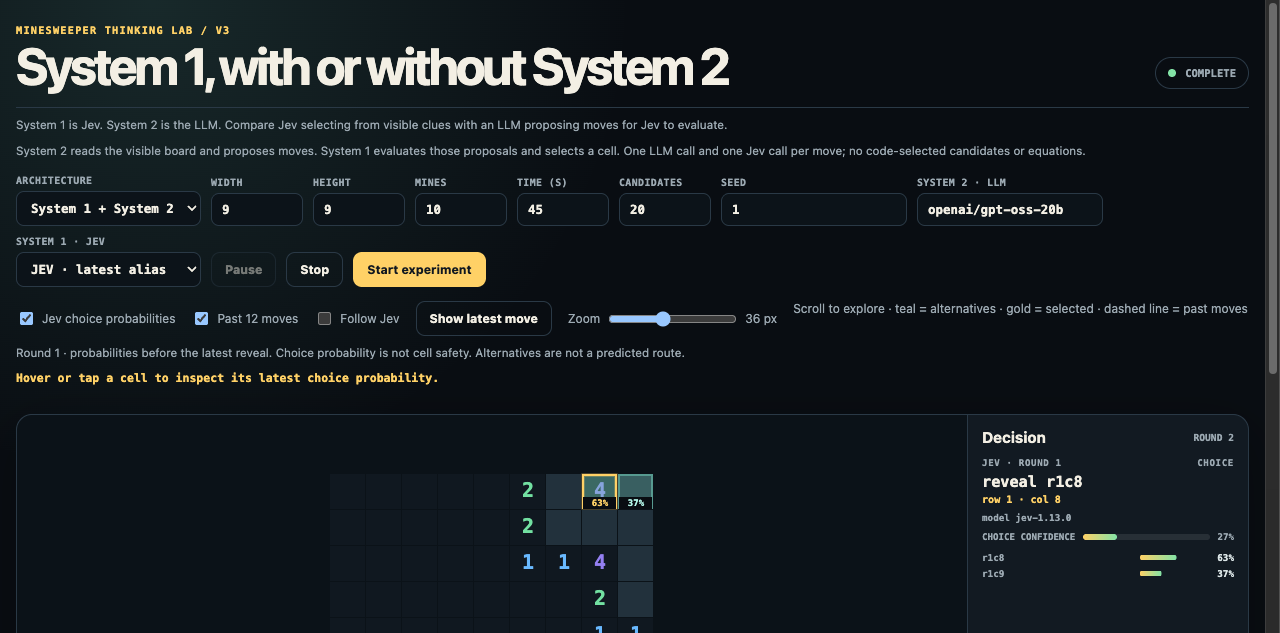
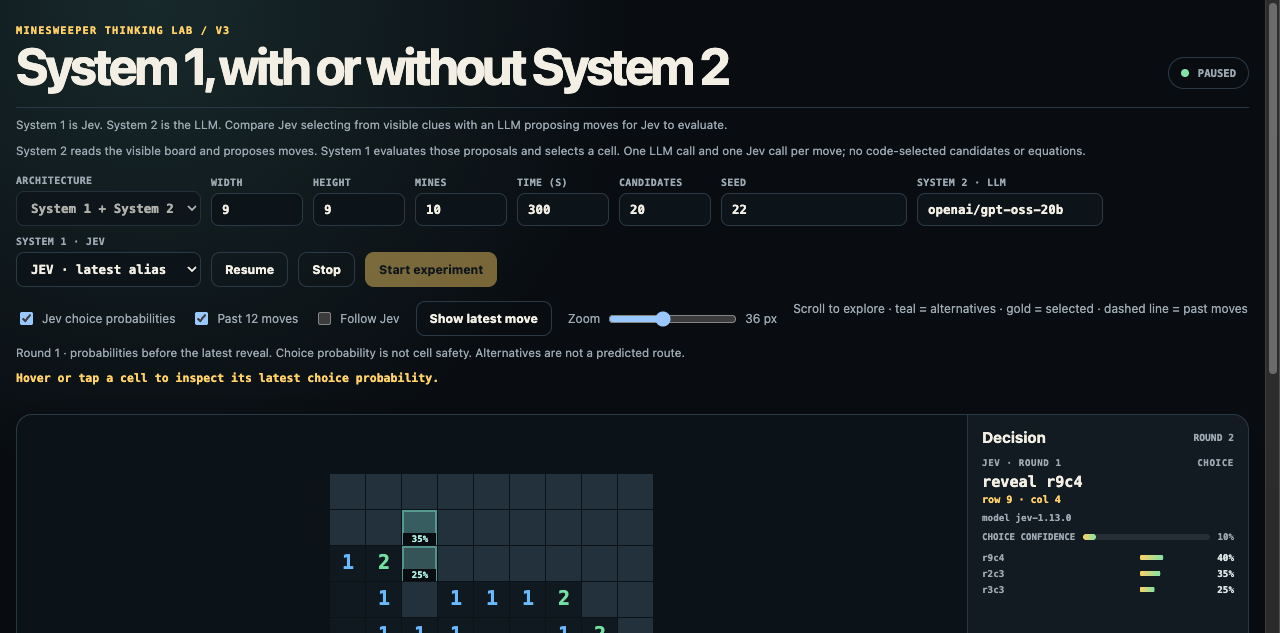
docs: align guides and research scope with current V3 architecture

diff --git a/docs/v3-context-lab.md b/docs/v3-context-lab.md
@@ -1,8 +1,8 @@
 # V3: System 1 and System 2
 
-Open `/v3/` to compare System 1 (Jev) alone with System 1 + System 2 (an LLM). V3 has its
-own session and retains zoom, manual scrolling, choice percentages, and optional
-following.
+Open `/v3/` to compare System 1 (Jev) alone with System 1 + System 2 (an LLM).
+V3 has its own session and retains zoom, manual scrolling, choice percentages,
+and optional following.
 
 | Mode | Input preparation | Who proposes moves? |
 | --- | --- | --- |
@@ -27,9 +27,9 @@ Select the OpenRouter model in **System 2 · LLM**. This mode requires an
 `OPENROUTER_API_KEY` and a Jev key. It makes one LLM call followed by one Jev
 call per decision; both count toward the game deadline. System 2 has up to
 120 seconds per request, bounded by the remaining game time. The status badge
-identifies the active model, a failed request, or a reached time limit. Large boards send
-more input and may exceed a provider's context or time limits. The board is
-not silently cropped. Hidden mine locations and move history are never sent.
+identifies the active model, a failed request, or a reached time limit.
+Jev requests have a 20-second limit. Large boards send more input and may
+exceed a provider's context or time limits. The board is not silently cropped. Hidden mine locations and move history are never sent.
 
 This tests Jev's selection among LLM proposals, not independent Minesweeper
 solving by Jev. LLM rationales may be wrong. No solver verifies them or corrects
@@ -49,20 +49,27 @@ clues; its scope and truncation status are included in the input.
 Equations only restate observations: a revealed `1` bordering A, B, and C
 becomes `A + B + C = 1`. Code does not combine or solve these equations.
 These baselines provide domain-specific structure even though they do not
-supply a computed solution. Their candidates and prompts differ from LLM + Jev.
+supply a computed solution. Their candidates and prompts differ from
+System 1 + System 2.
 
 ## Inspect and compare
 
-Choose a board, seed, input mode, pinned Jev model, and candidate/proposal
-limit. Expand **Input sent to Jev** to inspect or download the exact latest
-request, including the LLM proposals when present. Credentials are excluded.
+Choose a board, seed, **Architecture**, pinned Jev model, and **Candidates**
+limit. That limit caps code-sampled options in System 1 and LLM proposals in
+combined mode. Expand **Input sent to Jev** to inspect or download the exact
+latest request, including the LLM proposals when present. While System 2 is working,
+the inspector still shows the preceding Jev request, or no request before the
+first proposals arrive. Credentials are excluded.
 
 Same-seed games can follow different trajectories. Compare repeated games,
 failures, cost, and end-to-end latency before drawing performance conclusions.
 V3 stops on provider errors, invalid choices, or expired decisions. Choice
 percentages describe Jev's preferences, not probabilities of cell safety.
 
-![V3 System 1 + System 2 on a beginner board](images/v3-llm-guidance.png)
+The screenshot illustrates a paused provider-backed game, not a comparative
+performance result.
+
+![V3 System 1 + System 2 paused after a move on a beginner board](images/v3-llm-guidance.png)
 
 Implementation: [input construction](../minesweeper/context_lab.py),
 [provider adapter](../minesweeper/agents.py), and

diff --git a/README.md b/README.md
@@ -5,8 +5,10 @@ Minesweeper. The project measures board completion, decision quality, provider
 calls, and latency to test when model-assisted decisions improve on code alone.
 
 In these experiments, **System One** is Jev's typed decision model and
-**System Two** is an LLM asked to review a candidate move. Code controls the
-game, computes risks, and executes actions.
+**System Two** is an LLM. In V3, the LLM proposes moves for Jev to select;
+in the CLI hybrid, it reviews uncertain decisions after Jev. Code owns game
+rules and execution. Solver deductions and risk estimates are used by the
+original browsers and CLI, but are not supplied in V3.
 
 ## Experiments
 
@@ -19,7 +21,8 @@ game, computes risks, and executes actions.
 
 Variant 3 has six modes: `heuristic`, `code`, `proof`, `jev`, `llm`, and `hybrid`.
 Its solver and hybrid controller are available through the CLI; the browser
-variants retain their original controller. The 500×500 input limit describes
+routes `/` and `/v2/` retain their original controller. V3 uses a separate
+controller without solver guidance. The 500×500 input limit describes
 supported board size, not demonstrated solving reliability.
 
 ## Findings
@@ -36,7 +39,9 @@ is too small to establish a general model comparison. See the
 [research report](minesweeper/docs/system-one-system-two-research.md) for methods,
 all results, failures, and limitations.
 
-See the [V3 context lab guide](docs/v3-context-lab.md) for what each input mode supplies and how to inspect the actual request.
+The recorded findings above concern the CLI policies, not V3. V3 has gameplay
+integration checks but no published comparative win-rate study. See the
+[V3 guide](docs/v3-context-lab.md) for its inputs and request inspection.
 
 ## Browser gameplay
 
@@ -68,14 +73,18 @@ cp .env.example .env
 python3 -m minesweeper.server
 ```
 
-Open [LLM vs Jev](http://127.0.0.1:5391/) or
+Open [System 1 and System 2 (V3)](http://127.0.0.1:5391/v3/),
+[LLM vs Jev](http://127.0.0.1:5391/), or
 [Jev on large boards](http://127.0.0.1:5391/v2/). Use `TYPESAFE_API_KEY`
 (or `JEV_API_KEY`) for Jev and `OPENROUTER_API_KEY` for the LLM. Credentials
-remain on the server. Live experiments consume provider credits.
+remain on the server. V3 System 1 needs only the Jev key; its combined mode
+needs both keys. Live experiments consume provider credits. Use `--port 5392`
+to serve these routes on port 5392 instead of the default 5391.
 
 ## Documentation
 
 - [Run guide](minesweeper/README.md): configuration, benchmark commands, and budgets.
+- [V3 guide](docs/v3-context-lab.md): System 1 and System 2 inputs, controls, and failures.
 - [Architecture](docs/architecture.md): solver, model interfaces, routing, and execution checks.
 - [Research report](minesweeper/docs/system-one-system-two-research.md): experimental design and evidence.
 - [Findings article](minesweeper/docs/system-one-system-two-article.md): a shorter discussion of the results.

diff --git a/minesweeper/README.md b/minesweeper/README.md
@@ -16,21 +16,22 @@ python3 -m minesweeper.server
 | Experiment | URL | Credentials |
 | --- | --- | --- |
 | LLM vs Jev | [http://127.0.0.1:5391/](http://127.0.0.1:5391/) | Jev key and `OPENROUTER_API_KEY` |
-| Context lab | [http://127.0.0.1:5391/v3/](http://127.0.0.1:5391/v3/) | `TYPESAFE_API_KEY` or `JEV_API_KEY` |
+| System 1 / System 1 + System 2 (V3) | [http://127.0.0.1:5391/v3/](http://127.0.0.1:5391/v3/) | Jev key; combined mode also requires `OPENROUTER_API_KEY` |
 | Jev on large boards | [http://127.0.0.1:5391/v2/](http://127.0.0.1:5391/v2/) | `TYPESAFE_API_KEY` or `JEV_API_KEY` |
 
-The server loads the root `.env` and keeps credentials server-side. Optional
-variables are `JEV_MODEL`, `OPENROUTER_MODEL`, and `PORT`. The legacy
-`openouterkey` name is also accepted. Server flags include `--host`, `--port`,
-`--html`, and `--v2-html`; `./minesweeper/scripts/start.sh` forwards these flags.
+The server loads the root `.env` and keeps credentials server-side. Choose
+models in the browser controls; `JEV_MODEL` and `OPENROUTER_MODEL` configure
+CLI defaults. Use `--port 5392` to change the default port 5391. The legacy
+`openouterkey` credential name is also accepted. Server flags include
+`--host`, `--port`, `--html`, and `--v2-html`; `./minesweeper/scripts/start.sh` forwards these flags.
 
 The comparison starts both models on the same seeded board. Different actions
 can produce different subsequent observations. The first reveal is safe;
 revealing a mine loses the lane, and revealing every safe cell wins it.
 
 The large-board browser accepts up to 500×500 cells and sends compact frontier
-input above 4,096 cells. Both browsers use the original heuristic controller.
-The stronger solver and hybrid policy below are CLI experiments.
+input above 4,096 cells. The `/` and `/v2/` routes use the original heuristic
+controller. The stronger solver and hybrid policy below are CLI experiments.
 
 In V2, use **Zoom** and scroll in either direction to explore large boards.
 The viewport stays fixed by default. Enable **Follow Jev** to keep the latest
@@ -50,6 +51,14 @@ from V2. System 1 uses code-sampled frontier candidates and visible clues;
 combined mode uses the LLM's proposals from the full visible board. Neither
 mode supplies solver deductions or computed risks. Expand **Input sent to Jev**
 to inspect or download the latest request.
+
+System 2 proposes moves before System 1 selects one; it is called on every
+combined-mode decision. Its request limit is 120 seconds, bounded by the
+remaining game time; Jev has a 20-second request limit. The badge shows the
+active model. **Failed** means no usable decision was returned, **time limit**
+means the game budget expired, and **board cleared** means a win. Errors
+appear above the board; no fallback move replaces a failed V3 decision.
+The zoom, follow, and pause controls described above also work in V3.
 
 ## Benchmark modes
 

diff --git a/docs/architecture.md b/docs/architecture.md
@@ -4,7 +4,8 @@ The repository contains the two original browser experiments, the V3 context
 lab, and a separate benchmark CLI.
 They share the game engine and provider clients, but use different solvers and
 controllers. “System One” denotes TypeSafe Jev; “System Two” denotes the LLM's
-review role in the hybrid policy. These are software roles rather than claims
+analysis role: proposing moves before Jev in V3, or reviewing Jev decisions
+in the CLI hybrid policy. These are software roles rather than claims
 about human cognition. See [TypeSafe's System One definition](https://docs.typesafe.ai/concepts/system-one.md).
 
 ## Browser experiments
@@ -118,9 +119,29 @@ into a browser are tracked in the [roadmap](roadmap.md). Evaluation results and
 their limitations are in the
 [research report](../minesweeper/docs/system-one-system-two-research.md).
 
-## V3 context lab
+## V3: System 1 and System 2
 
-The [context lab](v3-context-lab.md) uses a separate server session at `/v3/`.
-It holds candidate selection and the Choice prompt fixed while varying clue
-representation and explicit solver guidance. It stops on failed or invalid
-decisions instead of using the original browsers’ random fallback.
+The [V3 guide](v3-context-lab.md) describes the separate session at `/v3/`.
+Neither visible UI mode supplies solver deductions or risk estimates.
+
+| Mode | Input and decision flow |
+| --- | --- |
+| System 1 | Code samples frontier candidates and gathers visible clues → Jev selects → code executes |
+| System 1 + System 2 | Full visible board → LLM proposes cells and rationales → Jev selects a proposal → code executes |
+
+[context_lab.py](../minesweeper/context_lab.py) constructs public inputs and
+validates LLM proposals for format, count, uniqueness, bounds, and legality.
+It does not rank, repair, or replace the proposals. The combined mode's Jev
+Choice options exactly match the LLM's proposals; the visible board is included
+alongside that unverified advice. The baseline's code-sampled options and
+prompt differ, so this is an architecture comparison, not an identical-input
+model comparison. An equation baseline remains API-only for reproducibility.
+
+System 2 has a 120-second request limit and Jev a 20-second limit, both bounded
+by the remaining game time. Execution checks the current run, stop state, and
+deadline before applying the result. Provider or proposal failures stop V3
+without the original browsers' random fallback or the CLI's risk correction.
+The UI identifies the active model and displays failure reasons above the board.
+
+This LLM → Jev flow is separate from the CLI's guarded Jev → LLM cascade.
+The historical CLI results do not measure V3's reliability.

diff --git a/CHANGELOG.md b/CHANGELOG.md
@@ -2,17 +2,14 @@
 
 ## Unreleased
 
-- Fix V3 reporting failed runs as complete. Show provider errors above the board
-  and the active reasoning stage; allow System 2 up to 120 seconds within the game deadline.
-- Label the V3 UI as System 1 (Jev) and System 1 + System 2 (LLM proposals
-  followed by Jev selection); remove the equation mode from the UI.
-- Replace V3 equation-based LLM advice with full-board LLM proposals followed
-  by Jev selection. Validate proposals without code-selected candidates or equations.
-- Replace V3 solver guidance with LLM advice from the same public evidence,
-  followed by Jev selection. Add a guidance-model control and inspectable advice.
-- Add a separate V3 context lab with clue-only, equation, and LLM-guided
-  inputs, inspectable requests, and failure handling without random fallback.
-
+- Add a separate V3 browser experiment with **System 1 (Jev)** and
+  **System 1 + System 2 (LLM proposals → Jev selection)**. Combined mode sends
+  the full visible board without code-selected candidates or equations;
+  invalid proposals stop the run without replacement moves.
+- Add model controls, inspectable Jev requests, and stage-specific status.
+  Failures appear above the board; System 2 has up to 120 seconds within the
+  game deadline. Retain the earlier equation baseline through the API only.
+- Document V3 separately from the historical guarded CLI cascade and its results.
 - Keep the V2 viewport fixed by default; make following opt-in and add a
   one-time **Show latest move** control.
 - Add V2 cell-choice percentages, previous-round changes, recent move trails,

diff --git a/docs/roadmap.md b/docs/roadmap.md
@@ -1,8 +1,10 @@
 # Roadmap
 
 The stronger constraint solver and Jev → LLM cascade currently run through the
-benchmark CLI. The two browser experiments use the original game policy.
-This roadmap describes proposed work; it is not part of the current release.
+benchmark CLI. The original `/` and `/v2/` browsers use the original game
+policy. [V3](v3-context-lab.md) already compares Jev with LLM proposals followed
+by Jev selection, without solver guidance. It does not implement the CLI cascade.
+The work below is proposed, separate from these available interfaces.
 
 ## Shared execution policy
 
@@ -50,6 +52,15 @@ justify its additional latency and cost.
 4. Retain the existing results as historical evidence and save new runs
    separately. Seeds used in development or regression checks are no longer
    held out for later studies.
+
+## V3 architecture evaluation
+
+Compare System 1 with System 1 + System 2 on repeated held-out games, recording
+provider failures, time limits, calls, input size, latency, cost, and completion.
+The architectures use different candidate-generation procedures; report that
+as part of the comparison. For a separate selection study, replay the same
+frozen LLM proposals to Jev and an LLM selector. Keep these findings separate
+from the existing guarded CLI study.
 
 ## Large-board performance
 

diff --git a/minesweeper/docs/system-one-system-two-article.md b/minesweeper/docs/system-one-system-two-article.md
@@ -10,7 +10,7 @@ LLM, but adding LLM review did not improve the recorded outcomes.
 
 ## Three approaches to decision making
 
-The repository includes an LLM-versus-Jev browser comparison, a Jev-only
+The original study includes an LLM-versus-Jev browser comparison, a Jev-only
 large-board browser, and a CLI for comparing stronger inference with code,
 Jev, LLM, and hybrid policies. The browsers use the original game policy.
 The stronger solver and hybrid are currently available in the CLI.
@@ -23,6 +23,11 @@ budgets. A guard restricts model choices to candidates tied at the minimum
 computed mine risk. “Jev-only” therefore means one model provider; the game
 still depends on deterministic code.
 [Implemented architecture](../../docs/architecture.md)
+
+The later [V3 experiment](../../docs/v3-context-lab.md) compares Jev with
+LLM-generated proposals followed by Jev selection, without solver guidance.
+Its architecture and request budgets differ from this study; the recorded
+results below do not evaluate V3.
 
 ## Better inference reduced guessing
 

diff --git a/docs/gameplay.md b/docs/gameplay.md
@@ -43,6 +43,19 @@ enabling automatic scrolling. Opt into **Follow Jev** to track moves, or use
 it does not forecast a route. Only visible cells are drawn, so increasing the
 board size does not require a board-sized canvas.
 
+## System 1 and System 2 (V3)
+
+V3 compares Jev choosing from code-sampled visible-clue candidates with an LLM
+proposing moves from the full visible board for Jev to select. The combined
+mode supplies no code-generated equations, deductions, or risk estimates.
+
+![System 1 + System 2 paused after a move](images/v3-llm-guidance.png)
+
+This screenshot illustrates live gameplay on a 9×9 board with 10 mines. It does
+not establish a win rate or a latency advantage. The [V3 guide](v3-context-lab.md)
+covers inputs, model roles, request inspection, timeouts, and failure handling.
+The offline and live replay results below concern the separate CLI policies.
+
 ## Offline repeat experiments
 
 The following September 22, 2026 runs use the code at

diff --git a/minesweeper/docs/system-one-system-two-research.md b/minesweeper/docs/system-one-system-two-research.md
@@ -29,10 +29,15 @@ tradeoff against that same controller and the single-provider policies.
 
 ### Experiment variants
 
-Three variants are available: the LLM-versus-Jev browser (`/`), the Jev-only
+The original study covered three variants: the LLM-versus-Jev browser (`/`), the Jev-only
 large-board browser (`/v2/`), and the stronger-solver CLI. Results below come
 from the CLI; both browsers retain the original deductions and heuristic
 ranking. See the [architecture guide](../../docs/architecture.md).
+
+The later [V3 experiment](../../docs/v3-context-lab.md) compares Jev with
+LLM-generated proposals followed by Jev selection, without solver guidance.
+Its architecture and request budgets differ from this study; the recorded
+results below do not evaluate V3.
 
 ### Policies and board generation
 
